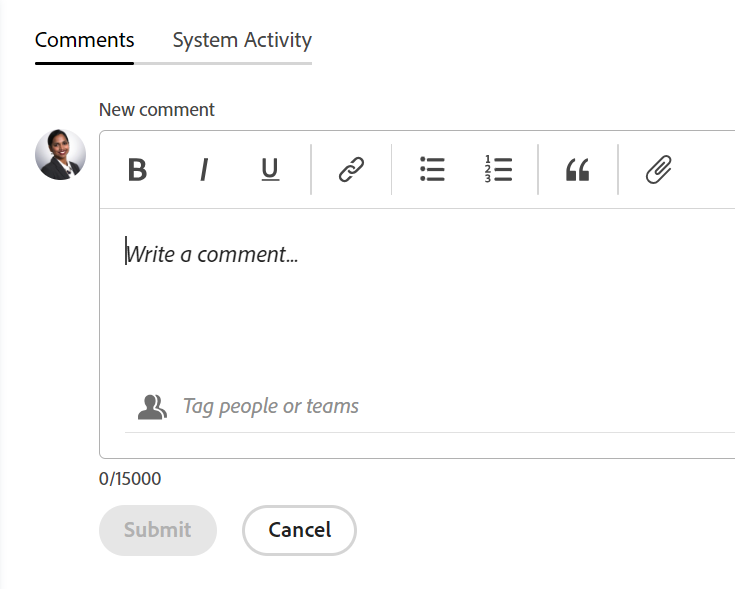
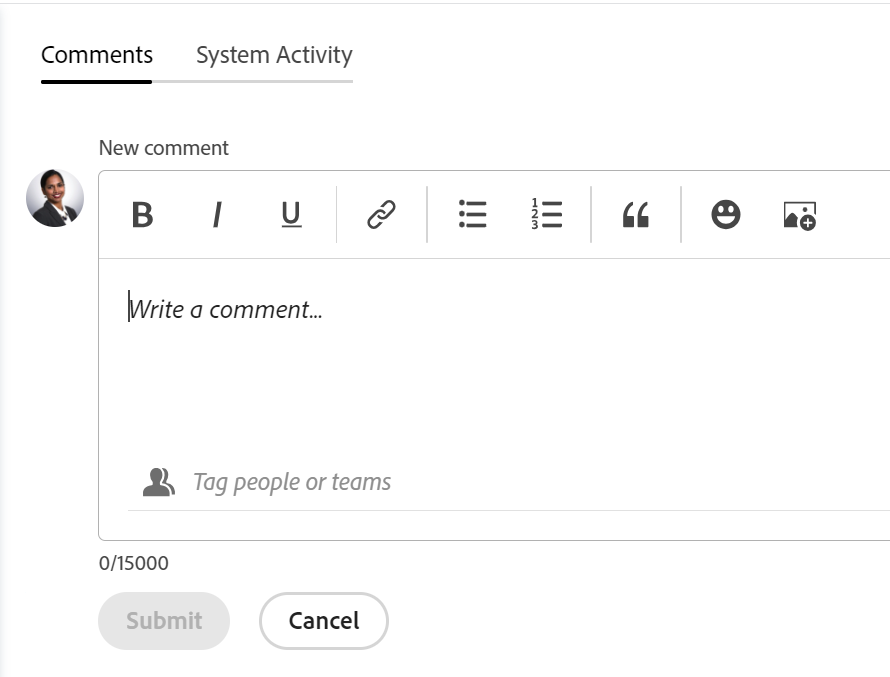
commit-aw-10-aug-pm

diff --git a/help/quicksilver/workfront-basics/updating-work-items-and-viewing-updates/update-work.md b/help/quicksilver/workfront-basics/updating-work-items-and-viewing-updates/update-work.md
@@ -234,8 +234,6 @@ For information about what features are available for the new commenting experie
       >The "New" indicator displays only when both the user that entered a new update as well as the user who is currently entering an update are using the new commenting experience. 
       >![](assets/real-time-new-red-indicator-unified-commenting.png)   
 
-1.  Click the **Add attachment** icon ![](assets/add-image-paperclip-icon.png) <!--replace this icon with this new one for August 10: ![](assets/add-image-mountain-with-plus-icon.png)--> to add an image to your comment. The image must be saved on your computer before you can attach it. <!--**************** this might be renamed to "Add image")-->
-
 1. Click **Submit** to add the update to the Workfront object. 
 1. (Optional) To edit a comment, click the **More** menu ![](assets/more-menu.png) to the right of the Like icon, then click **Edit**.
 1. Edit the information in the comment, add or remove images or remove any of the tagged users. 
@@ -295,7 +293,6 @@ You can enhance your updates by using Rich Text, or adding various items to it, 
    | Bulleted List | ![mceclip6.png](assets/mceclip6.png)|⌘+Shift+8 |Ctrl+Shift+8 |
    | Numbered List | ![mceclip5.png](assets/mceclip5.png)|⌘+Shift+7 |Ctrl+Shift+7 |
    | Block Quote | ![](assets/block-quote-icon-large.png)|⌘+Shift+9 |Ctrl+Shift+9 |
-   | Emoji | ![](assets/emoji-icon.png)|⌘+. | ⊞+.  |
    
    To stop formatting text, deselect the attribute on the **Rich Text** toolbar.
 
@@ -339,7 +336,7 @@ You can enhance your updates by using Rich Text, or adding various items to it, 
 
    Or
 
-   Click the **Add attachment** icon ![](assets/add-image-paperclip-icon.png) and browse to the image on your computer, when using the commenting Beta experience. <!--the name of the icon and the icon for it might change-->
+   Click the **Add attachment** icon ![](assets/add-image-mountain-with-plus-icon.png) and browse to the image on your computer, when using the commenting Beta experience. <!--**************** the tooltip of this icon might be renamed to "Add image")-->
 
    >[!NOTE]
    >

diff --git a/help/quicksilver/product-announcements/betas/new-commenting-experience-beta/new-commenting-beta-experience-release-activity.md b/help/quicksilver/product-announcements/betas/new-commenting-experience-beta/new-commenting-beta-experience-release-activity.md
@@ -95,7 +95,7 @@ You can now add emojis to a comment using a Rich Text toolbar option in the new 
 
 For more information, see [Update work](../../../workfront-basics/updating-work-items-and-viewing-updates/update-work.md). The documentation will be updated at the time of the release.
 
-Preview and production: To be announced (during or shortly after the 23.3 release) <!--August 10, 2023-->
+Preview and production: August 10, 2023
 
 #### New commenting experience for additional objects 
 

diff --git a/help/quicksilver/product-announcements/betas/new-commenting-experience-beta/unified-commenting-experience.md b/help/quicksilver/product-announcements/betas/new-commenting-experience-beta/unified-commenting-experience.md
@@ -123,9 +123,9 @@ The following table illustrates the features that will be available in the new c
    </td>
    <td>✓ 
    </td>
-   <td>
+   <td>✓
    </td>
-   <td>✓ 
+   <td> 
    </td>
    <td> 
    </td>
